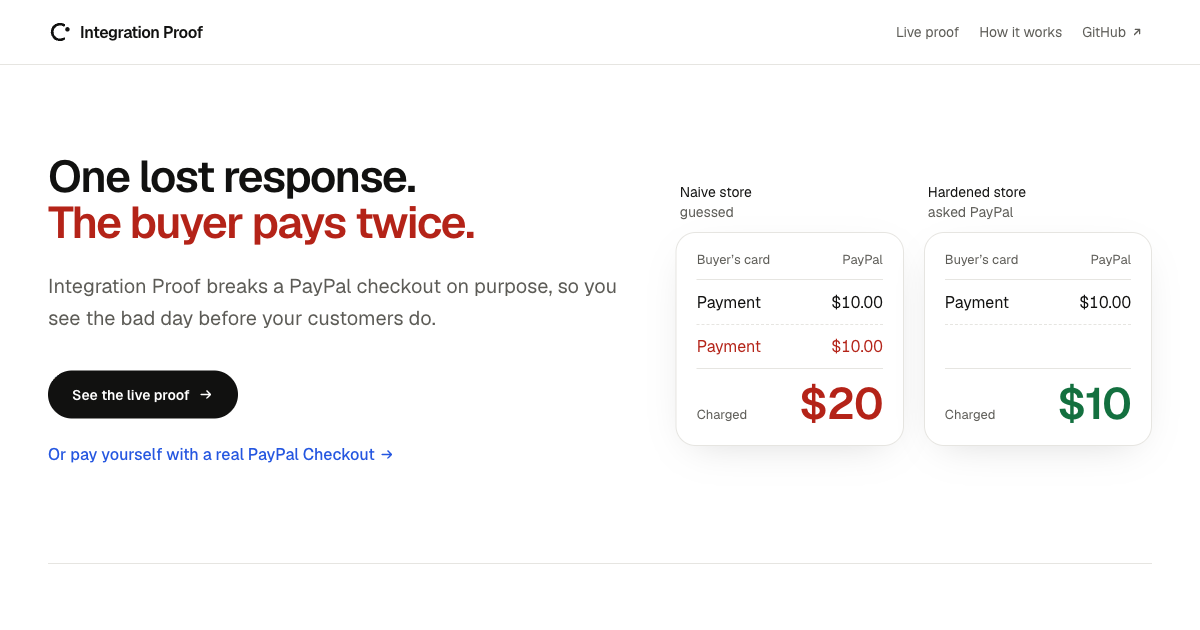
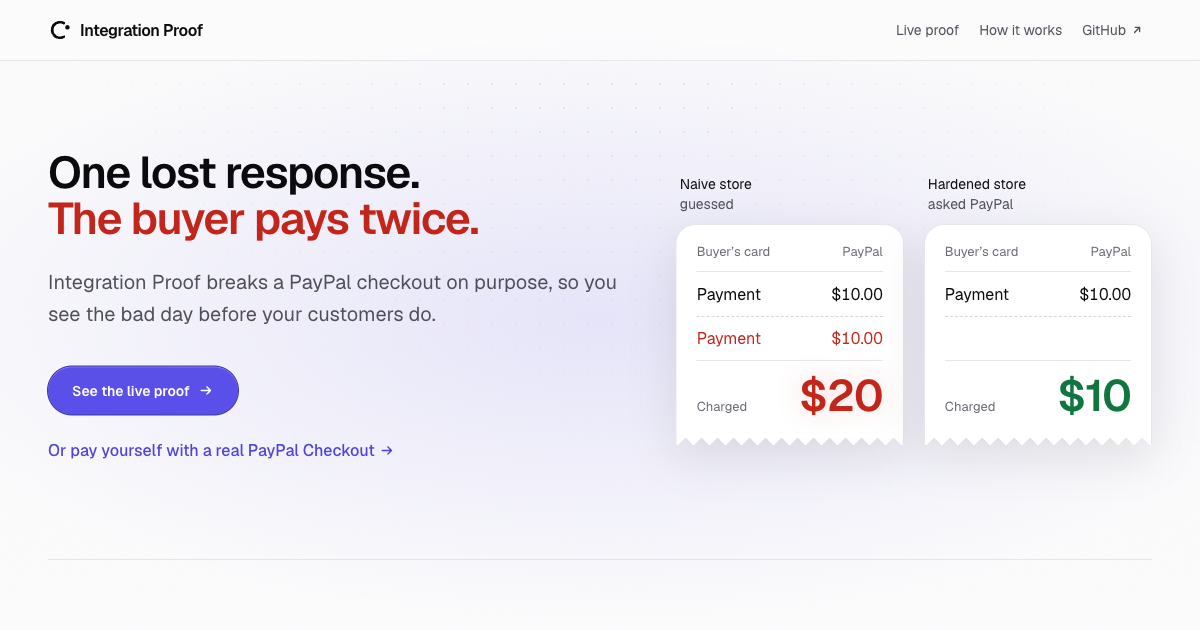
feat: /proof, the technical layer and the store page in the design system (#51)
- /proof: each store's score in a featured panel with a faint glow in its outcome's colour; the
  running button on the raised surface with an accent spinner. Rows have a hover surface, a ringed
  chevron and an accent left edge when open, carried down the open scene.
- Scenes: the four frames as a flow with small arrows between them from 1024 px; the outcome frame
  keeps its fail or pass colour and gains a tinted hairline; "Why it happened" and the other store as
  panels; the verified-fix pill in the accent.
- Panels on a tone band sit one step above it (--raised-2), with the hairline and the line of light,
  so they separate in both themes.
- Technical layer: code and diff in sunken wells with hairlines; evidence steps as accent-outlined
  pills. AG Grid themed from the tokens: sunken body, tone header, accent hover and focus, 12 px
  radius. Evidence-to-row highlight, selection and wrapping are unchanged.
- Store: a CSS-only product tile; the receipt as a success panel; the three stages as a timeline with
  arrows from 768 px, the waiting stage in the accent with a pulse (still under reduced motion).
  Payment logic, the SDK's props and loading are unchanged.
- The link preview is re-shot from the new landing.

diff --git a/app/store/[mode]/checkout.tsx b/app/store/[mode]/checkout.tsx
@@ -14,6 +14,7 @@ import { useCallback, useEffect, useMemo, useRef, useState } from "react";
 import { z } from "zod";
 import type { Mode } from "../../_components/report";
 import { TraceText } from "../../_components/trace-text";
+import { LogoMark } from "../../_components/logo";
 import { buttonSecondary, linkUtility, panel, panelLabel } from "../../_components/ui";
 import { captureWithFlag, checkoutView, followsCart, showsButtons, type CaptureAnswer, type CheckoutView } from "./capture";
 
@@ -201,9 +202,18 @@ export function Checkout({
           </div>
 
           <dl className="flex flex-col text-base">
-            <div className="flex items-baseline justify-between gap-4 border-b border-border pb-3">
-              <dt>
-                {product.description} <span className="text-muted">· qty 1</span>
+            <div className="flex items-center justify-between gap-4 border-b border-hairline pb-4">
+              <dt className="flex min-w-0 items-center gap-3">
+                {/* The item's tile, CSS only: the mark on an accent gradient with a line of light on top. */}
+                <span
+                  aria-hidden="true"
+                  className="grid size-12 shrink-0 place-items-center rounded-card border border-[color-mix(in_srgb,var(--accent-text)_30%,transparent)] bg-[radial-gradient(120%_120%_at_20%_0%,var(--accent-fill),color-mix(in_srgb,var(--accent-fill)_40%,var(--raised))_70%)] text-white shadow-[inset_0_1px_0_rgba(255,255,255,0.25)]"
+                >
+                  <LogoMark className="size-6" />
+                </span>
+                <span>
+                  {product.description} <span className="text-muted">· qty 1</span>
+                </span>
               </dt>
               <dd className="shrink-0 tabular-nums">{total}</dd>
             </div>
@@ -286,7 +296,7 @@ export function Checkout({
         <h2 id="result" className={panelLabel}>
           What the store and PayPal did
         </h2>
-        <ol className="grid gap-2 sm:gap-3 md:grid-cols-3">
+        <ol className="flow-arrows-md grid gap-2 sm:gap-3 md:grid-cols-3">
           <Stage
             label="The store takes the payment"
             done={view.kind === "paid"}
@@ -310,6 +320,7 @@ export function Checkout({
           <Stage
             label="PayPal's webhook arrives"
             done={Boolean(webhook)}
+            waiting={Boolean(polling) && !webhook}
             text={
               webhook
                 ? `Signature ${webhook.verification}`
@@ -359,7 +370,7 @@ function Receipt({ mode, total, view, sharedLink }: { mode: Mode; total: string;
   if (view.kind === "ready") return null;
   if (view.kind === "paid") {
     return (
-      <div role="status" className="flex flex-col gap-3 rounded-card bg-pass-bg p-4 sm:p-5">
+      <div role="status" className="flex flex-col gap-3 rounded-card border border-[color-mix(in_srgb,var(--pass)_28%,transparent)] bg-pass-bg p-4 shadow-[inset_0_1px_0_var(--highlight-top)] sm:p-5">
         <p className="flex items-center gap-2 text-lg font-semibold text-pass">
           {check}
           Paid {total}
@@ -414,6 +425,7 @@ function Stage({
   label,
   done,
   failed = false,
+  waiting = false,
   text,
   detail = null,
 }: {
@@ -421,12 +433,17 @@ function Stage({
   done: boolean;
   /** The stage ended without a payment: it reads in the failure color, never green. */
   failed?: boolean;
+  /** The page is waiting on this stage: a gentle pulse, still under reduced motion. */
+  waiting?: boolean;
   text: string;
   detail?: string | null;
 }) {
   return (
-    <li className={`flex min-w-0 flex-col gap-2 rounded-card px-4 py-3 ${done ? "bg-pass-bg" : failed ? "bg-fail-bg" : "bg-surface"}`}>
+    <li
+      className={`flex min-w-0 flex-col gap-2 rounded-card border px-4 py-3 ${done ? "border-[color-mix(in_srgb,var(--pass)_28%,transparent)] bg-pass-bg" : failed ? "border-[color-mix(in_srgb,var(--fail)_28%,transparent)] bg-fail-bg" : waiting ? "border-[color-mix(in_srgb,var(--accent-text)_40%,transparent)] bg-accent-soft" : "border-hairline bg-surface"}`}
+    >
       <p className="flex items-center gap-2 text-small text-muted">
+        {waiting && <span aria-hidden="true" className="live-dot size-1.5 shrink-0 rounded-full bg-accent-text" />}
         {done && check}
         {label}
         {done && <span className="sr-only">: done</span>}

diff --git a/app/_components/proof-scenes.tsx b/app/_components/proof-scenes.tsx
@@ -98,9 +98,14 @@ const check = (
 /** The story's frames: plain sentences, the outcome last, in red or green. */
 function Frames({ told, play }: { told: Story; play: boolean }) {
   return (
-    <ol className="grid gap-2 sm:grid-cols-2 sm:gap-3 lg:grid-cols-4">
+    <ol className="flow-arrows grid gap-2 sm:grid-cols-2 sm:gap-3 lg:grid-cols-4">
       {told.frames.map((frame, index) => {
-        const tone = frame.tone === "fail" ? "bg-fail-bg text-fail" : frame.tone === "pass" ? "bg-pass-bg text-pass" : "bg-background";
+        const tone =
+          frame.tone === "fail"
+            ? "border border-[color-mix(in_srgb,var(--fail)_28%,transparent)] bg-fail-bg text-fail"
+            : frame.tone === "pass"
+              ? "border border-[color-mix(in_srgb,var(--pass)_28%,transparent)] bg-pass-bg text-pass"
+              : "on-tone surface-card";
         return (
           <li
             key={index}
@@ -219,7 +224,7 @@ function Scene({
       <div className={`flex flex-wrap items-center justify-between gap-3 pt-2 ${play ? "after-enter" : ""}`} style={play && told ? ({ "--i": told.frames.length } as React.CSSProperties) : undefined}>
         <div className="flex flex-wrap items-center gap-x-4 gap-y-2">
           {verified && (
-            <span className="inline-flex min-h-10 items-center gap-2 rounded-full bg-background px-4 text-[15px]">
+            <span className="inline-flex min-h-10 items-center gap-2 rounded-full border border-[color-mix(in_srgb,var(--accent-text)_35%,transparent)] bg-accent-soft px-4 text-[15px]">
               {check}
               <span>
                 Claude’s fix verified offline · <s className="text-fail decoration-[1.5px]">FAIL</s> <span aria-hidden="true">→</span>
@@ -326,11 +331,13 @@ export function ScenarioRows({
                 aria-expanded={expanded}
                 aria-controls={sceneId(id)}
                 onClick={() => toggle(id)}
-                className={`grid w-full scroll-mt-4 grid-cols-[minmax(0,1fr)_1rem] items-center gap-x-3 gap-y-1.5 px-1 py-5 text-left transition-colors duration-150 hover:bg-surface focus-visible:-outline-offset-2 sm:px-5 sm:py-6 md:gap-6 ${columns} ${expanded ? "bg-surface" : ""}`}
+                className={`grid w-full scroll-mt-4 grid-cols-[minmax(0,1fr)_1rem] items-center gap-x-3 gap-y-1.5 px-1 py-5 text-left transition-colors duration-150 hover:bg-surface focus-visible:-outline-offset-2 sm:px-5 sm:py-6 md:gap-6 ${columns} ${expanded ? "bg-surface shadow-[inset_2px_0_0_var(--accent-text)]" : ""}`}
               >
                 <span className="text-lg font-medium tracking-tight sm:text-xl">{SCENARIO_TITLES[id] ?? id}</span>
                 <span className={`col-start-2 row-start-1 ${both ? "md:col-start-4" : "md:col-start-3"}`}>
-                  <Chevron open={expanded} />
+                  <span className="-m-1.5 grid size-7 place-items-center rounded-full border border-hairline bg-raised">
+                    <Chevron open={expanded} />
+                  </span>
                 </span>
                 {modes.map((mode, index) => (
                   <span key={mode} className={`col-span-2 md:col-span-1 md:row-start-1 ${index === 0 ? "md:col-start-2" : "md:col-start-3"}`}>
@@ -338,7 +345,7 @@ export function ScenarioRows({
                   </span>
                 ))}
               </button>
-              <div id={sceneId(id)} role="region" aria-labelledby={rowId(id)} hidden={!expanded} className="bg-surface">
+              <div id={sceneId(id)} role="region" aria-labelledby={rowId(id)} hidden={!expanded} className="bg-surface shadow-[inset_2px_0_0_var(--accent-text)]">
                 {expanded && (
                   <Scene id={id} modes={modes} scenarios={scenarios} now={now} deadlineMs={deadlineMs} code={code} dimmed={dimmed} play={open.play} />
                 )}

diff --git a/app/globals.css b/app/globals.css
@@ -40,6 +40,8 @@
   --glow: rgba(91, 79, 233, 0.13);
   --glow-fail: rgba(194, 38, 27, 0.18);
   --receipt-shadow: rgba(11, 11, 14, 0.1);
+  --glow-pass: rgba(17, 117, 63, 0.15);
+  --raised-2: #ffffff;
 
   --background: var(--bg);
   --foreground: var(--text);
@@ -108,6 +110,8 @@
     --glow: rgba(99, 91, 240, 0.2);
     --glow-fail: rgba(255, 107, 98, 0.22);
     --receipt-shadow: rgba(0, 0, 0, 0.55);
+    --glow-pass: rgba(69, 212, 131, 0.16);
+    --raised-2: #17171c;
 
     --diff-add: #a7f3c0;
     --diff-add-bg: #0d2416;
@@ -696,6 +700,99 @@ html[data-input="pointer"] .ag-cell:focus-visible::after {
     conic-gradient(from -45deg at bottom, #0000, #000 1deg 89deg, #0000 90deg) 50% / var(--tooth) 100%;
   mask:
     conic-gradient(from -45deg at bottom, #0000, #000 1deg 89deg, #0000 90deg) 50% / var(--tooth) 100%;
+}
+
+/* A panel on a tone band (a scene, the store): one step above the band, so it separates in both themes. */
+.on-tone {
+  --raised: var(--raised-2);
+}
+
+/* A score's panel: a faint glow in its outcome's colour (--glow-tone), behind it and out of the flow. */
+.glow-tone {
+  position: relative;
+  isolation: isolate;
+}
+
+.glow-tone::after {
+  content: "";
+  position: absolute;
+  inset: -18% -12%;
+  z-index: -1;
+  background: radial-gradient(closest-side, var(--glow-tone, transparent), transparent);
+  pointer-events: none;
+}
+
+/*
+ * Frames that read as a flow: a small arrow in the gap between neighbours, where they sit in one row
+ * (from 1024 px for a scene's frames, from 768 px for the store's stages).
+ */
+@media (min-width: 1024px) {
+  .flow-arrows > li:not(:last-child)::after {
+    content: "→";
+    position: absolute;
+    top: 50%;
+    right: -0.95rem;
+    z-index: 1;
+    display: grid;
+    place-items: center;
+    width: 1.25rem;
+    height: 1.25rem;
+    border-radius: 9999px;
+    border: 1px solid var(--hairline-2);
+    background: var(--raised-2);
+    color: var(--text-3);
+    font-size: 0.6875rem;
+    line-height: 1;
+    transform: translateY(-50%);
+  }
+}
+
+@media (min-width: 768px) {
+  .flow-arrows-md > li:not(:last-child)::after {
+    content: "→";
+    position: absolute;
+    top: 50%;
+    right: -0.95rem;
+    z-index: 1;
+    display: grid;
+    place-items: center;
+    width: 1.25rem;
+    height: 1.25rem;
+    border-radius: 9999px;
+    border: 1px solid var(--hairline-2);
+    background: var(--raised-2);
+    color: var(--text-3);
+    font-size: 0.6875rem;
+    line-height: 1;
+    transform: translateY(-50%);
+  }
+}
+
+.flow-arrows > li,
+.flow-arrows-md > li {
+  position: relative;
+}
+
+/* A small accent pill: an evidence step that opens the trace at its row. */
+.chip-accent {
+  display: inline-flex;
+  align-items: center;
+  justify-content: center;
+  border-radius: 9999px;
+  border: 1px solid color-mix(in srgb, var(--accent-text) 40%, transparent);
+  background: var(--accent-soft);
+  color: var(--accent-text);
+  font-weight: 600;
+  transition: background-color 150ms var(--ease-out), border-color 150ms var(--ease-out), transform 150ms var(--ease-out);
+}
+
+.chip-accent:hover {
+  border-color: var(--accent-text);
+  background: color-mix(in srgb, var(--accent-text) 16%, var(--accent-soft));
+}
+
+.chip-accent:active {
+  transform: scale(0.98);
 }
 
 /* The receipt's lift: a drop shadow follows the torn edge, where a box shadow would be cut off. */

diff --git a/app/_components/tally.tsx b/app/_components/tally.tsx
@@ -28,7 +28,11 @@ export function Tally({ mode, report, now, previous }: { mode: Mode; report: Run
   const total = report?.summary.total ?? 6;
   const progress = report && active ? runProgress(report, now) : null;
   return (
-    <div className={`flex min-w-0 flex-col items-center transition-opacity duration-200 ${previous ? "opacity-60" : ""}`}>
+    // A featured panel per store, with a faint glow in the colour of its outcome.
+    <div
+      className={`glow-tone surface-card flex min-w-0 flex-col items-center rounded-[var(--radius-feature)] px-3 pb-6 pt-7 transition-opacity duration-200 sm:px-6 sm:pb-7 sm:pt-9 ${previous ? "opacity-60" : ""}`}
+      style={{ "--glow-tone": tone === "fail" ? "var(--glow-fail)" : tone === "pass" ? "var(--glow-pass)" : "transparent" } as React.CSSProperties}
+    >
       {progress ? (
         <p className="flex h-[clamp(4rem,9vw,7.5rem)] flex-col items-center justify-center gap-2" aria-live="polite">
           <span className="grid w-40 grid-cols-6 gap-1 sm:w-56" aria-hidden="true">
@@ -54,7 +58,7 @@ export function Tally({ mode, report, now, previous }: { mode: Mode; report: Run
         </p>
       )}
       <p className="mt-3 text-lg font-medium">{MODE_LABELS[mode].name}</p>
-      <p className="text-small text-muted">{previous ? "previous run" : MODE_LABELS[mode].description}</p>
+      <p className="text-small text-balance text-muted">{previous ? "previous run" : MODE_LABELS[mode].description}</p>
     </div>
   );
 }

diff --git a/app/_components/trace-grid.tsx b/app/_components/trace-grid.tsx
@@ -18,21 +18,22 @@ ModuleRegistry.registerModules([AllCommunityModule]);
 
 /** The grid takes its colors from the site's tokens, so it follows the light and dark themes. */
 const theme = themeQuartz.withParams({
-  backgroundColor: "var(--surface)",
+  backgroundColor: "var(--sunken)",
   foregroundColor: "var(--foreground)",
-  borderColor: "var(--border)",
-  headerBackgroundColor: "var(--surface-2)",
-  headerTextColor: "var(--muted)",
-  oddRowBackgroundColor: "var(--surface)",
-  rowHoverColor: "var(--surface-2)",
-  accentColor: "var(--ring)",
+  borderColor: "var(--hairline)",
+  headerBackgroundColor: "var(--tone-2)",
+  headerTextColor: "var(--text-3)",
+  headerFontWeight: 500,
+  oddRowBackgroundColor: "var(--sunken)",
+  rowHoverColor: "color-mix(in srgb, var(--accent-soft) 55%, var(--sunken))",
+  accentColor: "var(--accent-text)",
   // An evidence link's row flashes in this color, then fades to the resting highlight.
   valueChangeValueHighlightBackgroundColor: "color-mix(in srgb, var(--ring) 24%, var(--highlight-bg))",
   fontFamily: "var(--font-geist-sans)",
   fontSize: 13,
   headerFontSize: 12,
   spacing: 6,
-  wrapperBorderRadius: 10,
+  wrapperBorderRadius: 12,
 });
 
 /** Mono only for what is code or an id: the call, debug_id and PayPal-Request-Id. Numbers stay in the text face. */

diff --git a/app/_components/handling-code.tsx b/app/_components/handling-code.tsx
@@ -25,7 +25,7 @@ export function HandlingCode({ id, mode, code }: { id: string; mode: Mode; code:
         </a>
       </div>
       <p className="measure text-sm leading-6 text-pretty">{snippet.caption}</p>
-      <CodeScroller label={`${snippet.file}, lines ${first} to ${last}`} gutter className="rounded-control border border-border bg-surface">
+      <CodeScroller label={`${snippet.file}, lines ${first} to ${last}`} gutter className="rounded-card border border-hairline bg-sunken">
         <pre className="py-2 font-mono text-xs leading-5">
           <code className="block min-w-max lg:min-w-0">
             {lines.map((line, index) => (
@@ -33,7 +33,7 @@ export function HandlingCode({ id, mode, code }: { id: string; mode: Mode; code:
                 {/* The numbers stay in place while the code scrolls under them. */}
                 <span
                   data-gutter=""
-                  className="sticky left-0 z-10 w-10 shrink-0 select-none bg-surface pr-3 text-right text-muted"
+                  className="sticky left-0 z-10 w-10 shrink-0 select-none bg-sunken pr-3 text-right text-text-3"
                   aria-hidden="true"
                 >
                   {first + index}

diff --git a/app/_components/analysis-panel.tsx b/app/_components/analysis-panel.tsx
@@ -5,7 +5,7 @@ import { FixMark } from "./fix-mark";
 import { usePlayOnce } from "./motion";
 import { Icon } from "./icon";
 import { proposedEdits, seconds, selfCheckLabel, type AnalysisView, type ScenarioView } from "./report";
-import { buttonSmall, linkUtility, panel, panelLabel } from "./ui";
+import { linkUtility, panel, panelLabel } from "./ui";
 
 const PATCH_LABELS = { applies: "Patch applies to the store file", needs_review: "Patch needs review", none: null };
 
@@ -124,7 +124,7 @@ export function ClaudeAnalysis({
                   <button
                     type="button"
                     onClick={() => onStep(item.stepId)}
-                    className={`${buttonSmall} min-w-12 shrink-0 self-start px-2 text-xs tabular-nums`}
+                    className="chip-accent min-h-9 min-w-12 shrink-0 self-start px-2.5 text-xs tabular-nums"
                     aria-label={`Show step ${item.stepId} in the trace`}
                   >
                     #{item.stepId}

diff --git a/app/_components/proof-comparison.tsx b/app/_components/proof-comparison.tsx
@@ -248,9 +248,9 @@ export function ProofComparison({
               type="button"
               disabled
               aria-busy="true"
-              className="inline-flex min-h-12 cursor-progress items-center gap-2.5 rounded-full border border-border-strong bg-background px-6 font-medium"
+              className="inline-flex min-h-12 cursor-progress items-center gap-2.5 rounded-full border border-hairline-2 bg-raised px-6 font-medium shadow-[inset_0_1px_0_var(--highlight-top)]"
             >
-              <span className="spinner" aria-hidden="true" />
+              <span className="spinner text-accent-text" aria-hidden="true" />
               {runLabel}
             </button>
           ) : (

diff --git a/app/_components/diff-view.tsx b/app/_components/diff-view.tsx
@@ -8,7 +8,7 @@ import { CodeScroller } from "./code-scroller";
 export function DiffView({ patch }: { patch: string }) {
   const lines = patch.replace(/\n$/, "").split("\n");
   return (
-    <CodeScroller label="Patch" className="rounded-control border border-border bg-background">
+    <CodeScroller label="Patch" className="rounded-card border border-hairline bg-sunken">
       <pre className="py-2 font-mono text-xs leading-5 lg:whitespace-pre-wrap">
         <code className="block min-w-max lg:min-w-0">
           {lines.map((line, index) => {

diff --git a/app/_components/ui.ts b/app/_components/ui.ts
@@ -29,7 +29,7 @@ export const linkUtility =
  * A panel on a scene's surface: the frames and lines of the first layer, and each block of the
  * technical layer. Inside one, only code, a patch or the trace grid gets a box of its own.
  */
-export const panel = "rounded-panel bg-background p-5 sm:p-6";
+export const panel = "on-tone surface-card rounded-panel p-5 sm:p-6";
 
 /** A small label above a panel's text: a store's name, "Why it happened", "Evidence in the trace". */
 export const panelLabel = "text-small text-muted";

diff --git a/app/_components/scenario-trace.tsx b/app/_components/scenario-trace.tsx
@@ -26,7 +26,7 @@ function Body({ label, value }: { label: string; value: unknown }) {
         <pre
           tabIndex={0}
           aria-label={label}
-          className="max-h-80 overflow-auto rounded-control border border-border bg-surface p-3 font-mono text-xs leading-5"
+          className="max-h-80 overflow-auto rounded-card border border-hairline bg-sunken p-3 font-mono text-xs leading-5"
         >
           {text}
         </pre>
